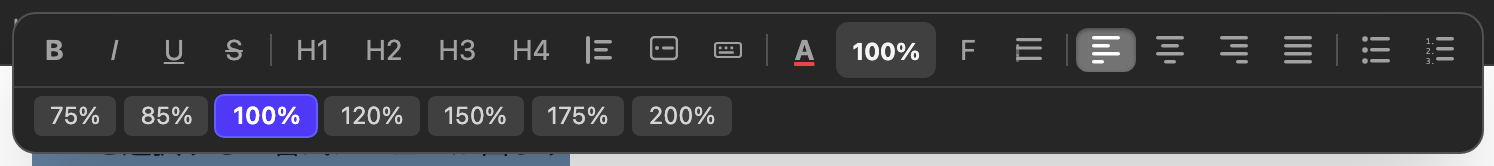
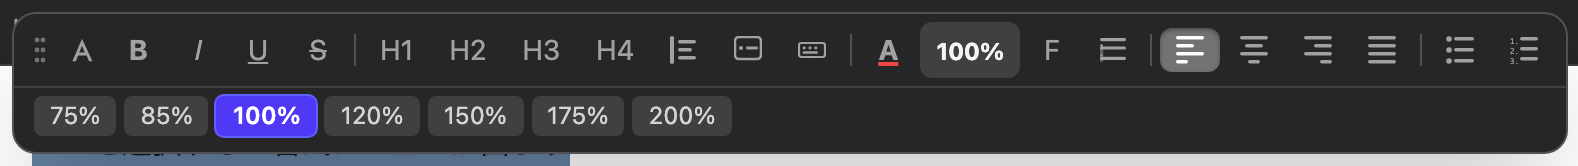
docs(guide): メニューの目印アイコンを反映（写真も撮り直し）

diff --git a/public/guide/index.html b/public/guide/index.html
@@ -325,7 +325,7 @@
       </p>
       <div class="box box-tip">
         <div class="box-icon">💡</div>
-        <div>浮いているメニュー（書式・表・罫線・画像・BOX設定）は、<strong>左端の点々（⠿）をつかんで動かせます</strong>。書きたい場所に重なったら、どけてください。<br>ボタンは押した瞬間に一瞬光ります。スマホで指に隠れても「どれを押したか」が分かるようにするためです。</div>
+        <div>浮いているメニュー（書式・表・罫線・画像・BOX設定）は、<strong>左端の点々（⠿）をつかんで動かせます</strong>。その隣のアイコンは「何のメニューか」を表していて、こちらも取っ手になります。書きたい場所に重なったら、どけてください。<br>ボタンは押した瞬間に一瞬光ります。スマホで指に隠れても「どれを押したか」が分かるようにするためです。</div>
       </div>
 
       <h3>文字数</h3>
@@ -780,7 +780,7 @@
             <tr><td>セルの連結</td><td>表メニューの「右と連結」「下と連結」。端では押せません。</td></tr>
             <tr><td>縦位置</td><td>セルの中身を 上 / 中央 / 下 に揃えられます。</td></tr>
             <tr><td>表ごと削除</td><td>表メニュー右端の 🗑。</td></tr>
-            <tr><td>メニューが邪魔なとき</td><td>メニュー左端の<strong>点々（⠿）をつかむと、好きな場所へ動かせます</strong>。表メニューは「TBL設定」の文字でも掴めます。選択した文字はそのまま残るので、どけてから続けて操作できます（別の表を触ると元の位置に戻ります）。</td></tr>
+            <tr><td>メニューが邪魔なとき</td><td>メニュー左端の<strong>点々（⠿）や、その隣のアイコンをつかむと、好きな場所へ動かせます</strong>。選択した文字はそのまま残るので、どけてから続けて操作できます（別の表を触ると元の位置に戻ります）。</td></tr>
             <tr><td>行をスワイプで削除<br>（スマホ）</td><td>行を<strong>左へ大きくスワイプ</strong>すると、その行が消えます（<strong>行の幅の半分以上</strong>動かしたときだけ。それ未満は元に戻ります）。動かすほど<strong>行が赤くなり</strong>、離せば消える状態になると<strong>赤い枠</strong>が付くので、手前で止めれば消えません。指で小さな「−」を狙わずに済むための近道で、<strong>「−」ボタンもそのまま使えます</strong>。間違えたら <kbd>元に戻す</kbd> で戻せます。</td></tr>
             <tr><td>行を長押しで並べ替え<br>（スマホ）</td><td>行を<strong>長押し</strong>すると並び替えモードになり（表に点線の枠が付きます）、そのまま<strong>行をつかんで上下に動かせます</strong>。終わったら表を軽くタップすると元に戻ります。小さな並べ替えハンドルを狙えないときの近道です。</td></tr>
           </tbody>
